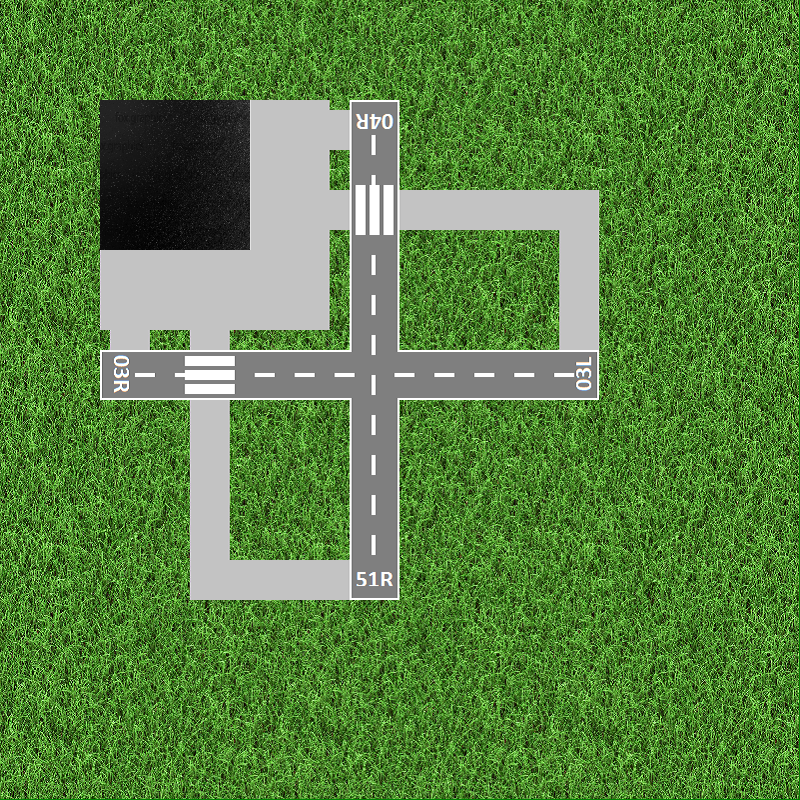
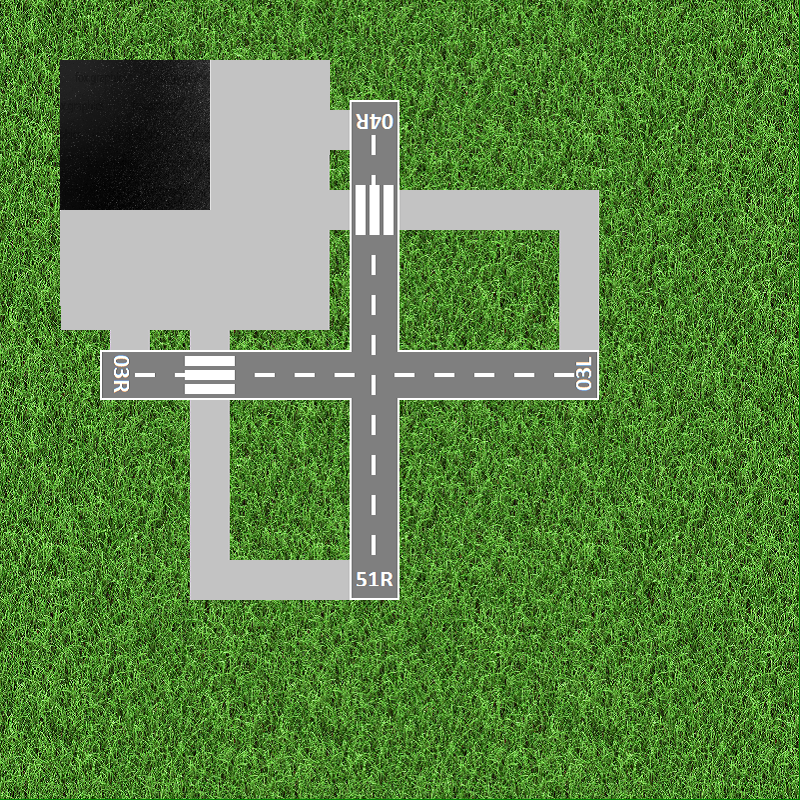
UPDATE: Poprawiono: parkowanie, dojazdy do miejsc parkingowych. Zmiana: mapa

Changed region(s): [[0.0625, 0.0625, 0.4375, 0.4375]]

diff --git a/AirPort/src/AirPort.java b/AirPort/src/AirPort.java
@@ -1,9 +1,10 @@
 import java.awt.*;
 import java.awt.event.MouseAdapter;
 import java.awt.event.MouseEvent;
-import java.awt.geom.AffineTransform;
-import java.awt.image.AffineTransformOp;
+    //import java.awt.geom.AffineTransform;
+    //import java.awt.image.AffineTransformOp;
 import java.awt.image.BufferStrategy;
+import java.util.ArrayList;
 import java.util.Random;
 import java.util.Timer;
 import java.util.TimerTask;
@@ -21,6 +22,8 @@ public class AirPort extends JFrame{
     
     private plane[] Fleet;
     private int horizontalParking[], verticalParking[];        //parking poziomy i pionowy
+    private ArrayList horizontal, vertical;                    //listy do wyjazdu
+    private ArrayList horizontalStart, verticalStart;          //listy przed odlotem
     private Image Menu, GameOver, Lotnisko, Airliner;
         
     private Timer timer;
@@ -53,7 +56,7 @@ public class AirPort extends JFrame{
                                 radDegree = (Math.PI * Fleet[i].getDegree())/180;
                                 Fleet[i].setX((int) (600d + radius * Math.cos(radDegree)));
                                 Fleet[i].setY((int) (460d - radius * Math.sin(radDegree)));
-                            }else if(Fleet[i].getX() <= 600 && Fleet[i].getX() > 115 && Fleet[i].getY() <= 360  && Fleet[i].getY() >= 300 && !Fleet[i].getStart()){
+                            }else if(Fleet[i].getX() <= 600 && Fleet[i].getX() > 115 && Fleet[i].getY() <= 360  && Fleet[i].getY() >= 320 && !Fleet[i].getStart()){
                                 Fleet[i].changePosition(true); //wylądowałem
                                 Fleet[i].setX(Fleet[i].getX() - Fleet[i].getSpeed());
                             }else if(Fleet[i].getX() <= 115 && Fleet[i].getY() <=360 && Fleet[i].getY() >= 320 && Fleet[i].getDegree() <= 180 && !Fleet[i].getStart()){
@@ -62,7 +65,7 @@ public class AirPort extends JFrame{
                                     Fleet[i].setDegree(180d);
                                     Fleet[i].setY(Fleet[i].getY() - Fleet[i].getSpeed());                                    
                                 }
-                            }else if(Fleet[i].getY() < 320 && Fleet[i].getY() >= 255 && !Fleet[i].getStart()){ //PARKOWANIE
+                            }else if(Fleet[i].getY() < 320 && Fleet[i].getY() >= 215 && !Fleet[i].getStart()){ //PARKOWANIE
                                 for(int j = 0; j < 3; j++){
                                     if(horizontalParking[j] == 10 && !Fleet[i].getParked()){
                                         horizontalParking[j] = i;
@@ -124,26 +127,26 @@ public class AirPort extends JFrame{
                                 }
                             }
                         } else { //Po zmianie kliknieciu pasa
-                            if(Fleet[i].getY() >= 600 && Fleet[i].getX() >= 700){
+                            if(Fleet[i].getY() >= 600 && Fleet[i].getX() >= 700 && !Fleet[i].getStart()){
                                 Fleet[i].setY(Fleet[i].getY() - Fleet[i].getSpeed());
                                 Fleet[i].setxChange(700);
                                 Fleet[i].setyChange(600);
-                            }else if(Fleet[i].getX() > 600){ //dodać warunek na pozycje Y
+                            }else if(Fleet[i].getX() > 600 && !Fleet[i].getStart()){ //dodać warunek na pozycje Y
                                 Fleet[i].setDegree(Fleet[i].getDegree() + (Fleet[i].getSpeed()));
                                 radDegree = (Math.PI * Fleet[i].getDegree())/180;
                                 Fleet[i].setX((int) (650d + radius2 * Math.cos(radDegree)));
                                 Fleet[i].setY((int) (Fleet[i].getyChanege() - radius2 * Math.sin(radDegree)));
-                            }else if(Fleet[i].getX() == 600 && Fleet[i].getY() <= 650){
+                            }else if(Fleet[i].getX() == 600 && Fleet[i].getY() <= 650 && !Fleet[i].getStart()){
                                 if(Fleet[i].getX() == 600 ){
                                     Fleet[i].setDegree(0d);
                                 }
                                 Fleet[i].setY(Fleet[i].getY() + Fleet[i].getSpeed());
-                            }else if(Fleet[i].getY() >= 650 && Fleet[i].getX() <= 600 && Fleet[i].getX() > 500 && Fleet[i].getDegree() < 90){
+                            }else if(Fleet[i].getY() >= 650 && Fleet[i].getX() <= 600 && Fleet[i].getX() > 500 && Fleet[i].getDegree() < 90 && !Fleet[i].getStart()){
                                 Fleet[i].setDegree(Fleet[i].getDegree() + (Fleet[i].getSpeed()));
                                 radDegree = (Math.PI * Fleet[i].getDegree())/180;
                                 Fleet[i].setX((int) (550d + radius2 * Math.cos(radDegree)));
                                 Fleet[i].setY((int) (650d + radius2 * Math.sin(radDegree)));
-                            }else if(Fleet[i].getY() >= 650 && Fleet[i].getDegree() == 90){
+                            }else if(Fleet[i].getY() >= 650 && Fleet[i].getDegree() == 90 && !Fleet[i].getStart()){
                                 Fleet[i].setY(700);
                                 Fleet[i].setX(550);
                                 Fleet[i].setlaneChange(false);
@@ -153,23 +156,23 @@ public class AirPort extends JFrame{
                         }
                     }else{  //wylot poziomy
                         if(Fleet[i].getlaneChange() == false){ //be zmiany pasa
-                            if(Fleet[i].getX() >= 460 && Fleet[i].getY() >= 600){
+                            if(Fleet[i].getX() >= 460 && Fleet[i].getY() >= 600 && !Fleet[i].getStart()){
                                 Fleet[i].setX(Fleet[i].getX() - Fleet[i].getSpeed());                                
-                            }else if(Fleet[i].getY() >= 600 && Fleet[i].getX() <= 460 && Fleet[i].getX() >= 360 && Fleet[i].getDegree() <= 90){
+                            }else if(Fleet[i].getY() >= 600 && Fleet[i].getX() <= 460 && Fleet[i].getX() >= 360 && Fleet[i].getDegree() <= 90 && !Fleet[i].getStart()){
                                 Fleet[i].setDegree(Fleet[i].getDegree() + (Fleet[i].getSpeed()));
                                 radDegree = (Math.PI * Fleet[i].getDegree())/180;
                                 Fleet[i].setX((int) (460d - radius * Math.sin(radDegree)));
                                 Fleet[i].setY((int) (600d + radius * Math.cos(radDegree)));
-                            }else if(Fleet[i].getY() < 600 && Fleet[i].getY() > 115 && Fleet[i].getX() <= 360 && Fleet[i].getX() >= 300){
+                            }else if(Fleet[i].getY() < 600 && Fleet[i].getY() > 115 && Fleet[i].getX() <= 360 && Fleet[i].getX() >= 320 && !Fleet[i].getStart()){
                                 Fleet[i].changePosition(true); //wylądowałem
                                 Fleet[i].setY(Fleet[i].getY() - Fleet[i].getSpeed());
-                            }else if(Fleet[i].getY() <= 115 && Fleet[i].getX() <= 360 && Fleet[i].getX() >= 300 && Fleet[i].getDegree() <= 180){
+                            }else if(Fleet[i].getY() <= 115 && Fleet[i].getX() <= 360 && Fleet[i].getX() >= 320 && Fleet[i].getDegree() <= 180 && !Fleet[i].getStart()){
                                 Fleet[i].setDegree(Fleet[i].getDegree() + Fleet[i].getSpeed());
                                 if(Fleet[i].getDegree() >= 180){
                                     Fleet[i].setDegree(180d);
                                     Fleet[i].setX(Fleet[i].getX() - Fleet[i].getSpeed());                                    
                                 }
-                            }else if(Fleet[i].getX() < 300 && Fleet[i].getX() >= 255){ //PARKOWANIE
+                            }else if(Fleet[i].getX() < 320 && Fleet[i].getX() >= 215 && !Fleet[i].getStart()){ //PARKOWANIE
                                 for(int j = 0; j < 3; j++){
                                     if(verticalParking[j] == 10 && !Fleet[i].getParked()){
                                         verticalParking[j] = i;
@@ -178,20 +181,31 @@ public class AirPort extends JFrame{
                                     }
                                     
                                     if( i == verticalParking[0]){
+                                    if(Fleet[i].getX() > 300){
+                                        Fleet[i].setX(Fleet[i].getX() - Fleet[i].getSpeed());
+                                    }else{
                                         if(Fleet[i].getY() >= 100){
                                             Fleet[i].setY(Fleet[i].getY() - Fleet[i].getSpeed());                                        
                                         }else{
                                              Fleet[i].setX(Fleet[i].getX() - Fleet[i].getSpeed());                                           
                                         }
                                     }
-                                    if( i == verticalParking[1]){
+                                }
+                                if( i == verticalParking[1]){
+                                    if(Fleet[i].getX() > 300){
+                                        Fleet[i].setX(Fleet[i].getX() - Fleet[i].getSpeed());
+                                    }else{
                                         if(Fleet[i].getY() <= 140){
                                             Fleet[i].setY(Fleet[i].getY() + Fleet[i].getSpeed());                                        
                                         }else{
                                              Fleet[i].setX(Fleet[i].getX() - Fleet[i].getSpeed());                                           
                                         }
                                     }
-                                    if( i == verticalParking[2]){
+                                }
+                                if( i == verticalParking[2]){
+                                    if(Fleet[i].getX() > 300){
+                                        Fleet[i].setX(Fleet[i].getX() - Fleet[i].getSpeed());
+                                    }else{
                                         if(Fleet[i].getY() <= 180){
                                             Fleet[i].setY(Fleet[i].getY() + Fleet[i].getSpeed());                                        
                                         }else{
@@ -199,7 +213,8 @@ public class AirPort extends JFrame{
                                         }
                                     }
                                 }
-                            }else if(Fleet[i].getLoad() < 500){
+                                }
+                            }else if(Fleet[i].getLoad() < 500 && !Fleet[i].getStart()){
                                 Fleet[i].setLoad(Fleet[i].getLoad() + Fleet[i].getSpeed());
                             }
                         }else{ //ZMIANA PASA
@@ -251,6 +266,8 @@ public class AirPort extends JFrame{
         repaint();
         }
     }
+    
+    
     
     public class plane{
         private final int   wsp[] = new int[2];
@@ -376,7 +393,9 @@ public class AirPort extends JFrame{
             fly = iFly;
         }
     }
-
+    
+    
+    
     AirPort(){
         //Okno
         super("Kontroler Lotów");
